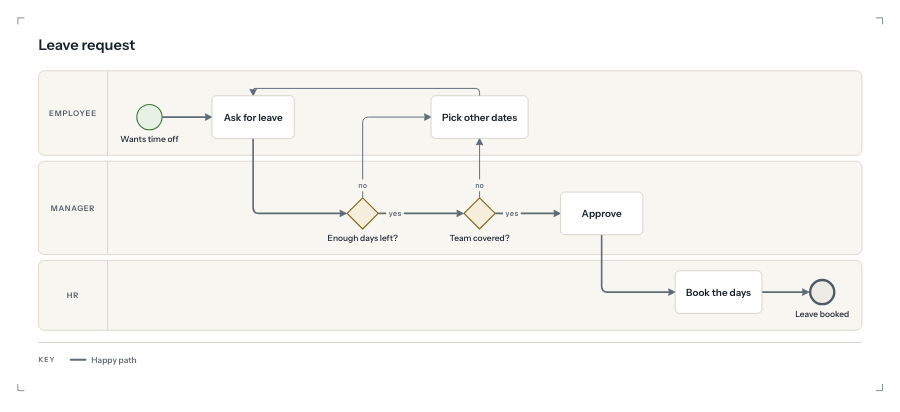
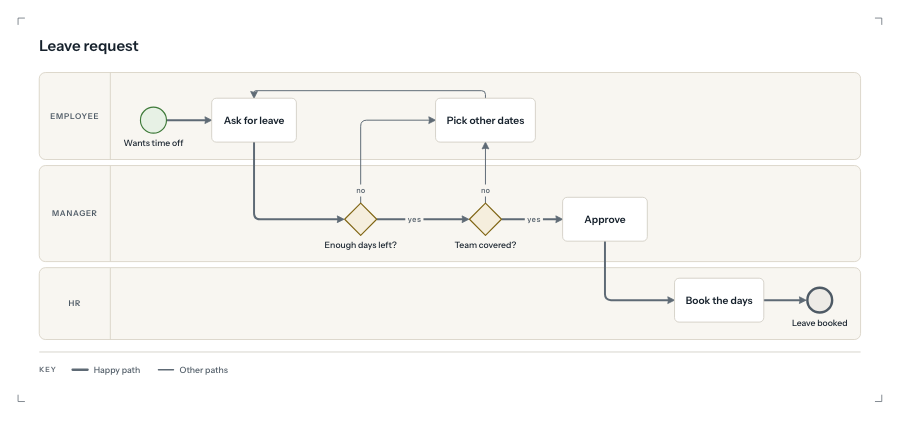
Benchmark: regenerate with the direction kept and processes wrapped
Claude-Session: https://claude.ai/code/session_01NyzyPhzV2RHZLQ3eD8NAEL

diff --git a/docs/benchmark.md b/docs/benchmark.md
@@ -47,16 +47,14 @@ The cases: an order platform with two groups, an analytics pipeline in four grou
 
 ### Where Cartography loses
 
-- **Event mesh**, crossings: Cartography 4; Mermaid 2, D2 · dagre 3, D2 · ELK 3
-- **Delivery pipeline**, crossings: Cartography 2; Mermaid 0, D2 · dagre 0, D2 · ELK 0, D2 · TALA 0
-- **Leave request**, label overlaps: Cartography 2; Mermaid 0, D2 · dagre 0, D2 · ELK 0, D2 · TALA 0
-- **Sign-in flow**, label overlaps: Cartography 1; Mermaid 0, D2 · dagre 0, D2 · ELK 0, D2 · TALA 0
-- **Leave request**, white space (area per shape area, more than 1.5 more): Cartography 6.7; Mermaid 3.6
-- **Sign-in flow**, white space (area per shape area, more than 1.5 more): Cartography 5.4; Mermaid 2.6
-- **Delivery pipeline**, white space (area per shape area, more than 1.5 more): Cartography 5.8; Mermaid 3.8
-- **Cloud platform**, movement after the edit, from scratch (more than 5 points more): Cartography 22.5 %; Mermaid 11.4 %, D2 · dagre 2.7 %, D2 · ELK 5.8 %
-- **Delivery pipeline**, movement after the edit, from scratch (more than 5 points more): Cartography 54.6 %; Mermaid 0.8 %, D2 · dagre 0.4 %, D2 · ELK 0.8 %, D2 · TALA 5.4 %
-- **Very wide drawings** that will not fit a slide or a page without shrinking: Sign-in flow (4.7 : 1), Photo uploads (12.4 : 1), Order lifecycle (9.9 : 1)
+- **Event mesh**, crossings: Cartography 6; Mermaid 2, D2 · dagre 3, D2 · ELK 3, D2 · TALA 5
+- **Cloud platform**, crossings: Cartography 3; Mermaid 1, D2 · dagre 2, D2 · ELK 1
+- **Leave request**, white space (area per shape area, more than 1.5 more): Cartography 6.4; Mermaid 3.6
+- **Sign-in flow**, white space (area per shape area, more than 1.5 more): Cartography 6.5; Mermaid 2.6, D2 · dagre 4.3, D2 · ELK 4.5, D2 · TALA 4.0
+- **Event mesh**, white space (area per shape area, more than 1.5 more): Cartography 5.7; D2 · ELK 3.5
+- **Event mesh**, movement after the edit, from scratch (more than 5 points more): Cartography 19.6 %; Mermaid 3.5 %, D2 · dagre 0.8 %
+- **Cloud platform**, movement after the edit, from scratch (more than 5 points more): Cartography 19.6 %; Mermaid 11.4 %, D2 · dagre 2.7 %, D2 · ELK 5.8 %
+- **Very wide drawings** that will not fit a slide or a page without shrinking: Order lifecycle (9.9 : 1), Event mesh (4.0 : 1)
 
 Generated 2026-11-10 with Mermaid 12.3.0 and D2 v0.9.0. Best value per row in bold (lower is better everywhere).
 
@@ -71,10 +69,10 @@ Generated 2026-11-10 with Mermaid 12.3.0 and D2 v0.9.0. Best value per row in bo
 | Photo uploads | **0** | 2 | 1 | **0** | **0** |
 | Shop schema | **0** | **0** | **0** | **0** | **0** |
 | Order lifecycle | **0** | 1 | 1 | **0** | **0** |
-| Event mesh | 4 | **2** | 3 | 3 | 5 |
-| Cloud platform | **1** | **1** | 2 | **1** | 3 |
-| Delivery pipeline | 2 | **0** | **0** | **0** | **0** |
-| **Total** | 7 | 6 | 7 | 4 | 8 |
+| Event mesh | 6 | **2** | 3 | 3 | 5 |
+| Cloud platform | 3 | **1** | 2 | **1** | 3 |
+| Delivery pipeline | **0** | **0** | **0** | **0** | **0** |
+| **Total** | 9 | 6 | 7 | 4 | 8 |
 
 ### Unrelated lines touching (they meet and part on one track)
 
@@ -103,10 +101,10 @@ Generated 2026-11-10 with Mermaid 12.3.0 and D2 v0.9.0. Best value per row in bo
 | Photo uploads | 8 | **0** | 1 | 12 | 2 |
 | Shop schema | 4 | 8 | **0** | 8 | 4 |
 | Order lifecycle | 11 | 28 | **3** | 19 | 8 |
-| Event mesh | 24 | 42 | **1** | 22 | 12 |
-| Cloud platform | 15 | 32 | **5** | 18 | **5** |
-| Delivery pipeline | 15 | 24 | **1** | 20 | 11 |
-| **Total** | 118 | 222 | 24 | 161 | 61 |
+| Event mesh | 20 | 42 | **1** | 22 | 12 |
+| Cloud platform | 17 | 32 | **5** | 18 | **5** |
+| Delivery pipeline | 13 | 24 | **1** | 20 | 11 |
+| **Total** | 114 | 222 | 24 | 161 | 61 |
 
 ### Turning per line, degrees (a right angle is 90, a curve counts its sweep)
 
@@ -118,10 +116,10 @@ Generated 2026-11-10 with Mermaid 12.3.0 and D2 v0.9.0. Best value per row in bo
 | Sign-in flow | 41 | 155 | 40 | 65 | **8** |
 | Photo uploads | 80 | **0** | 28 | 120 | 20 |
 | Shop schema | 72 | 144 | **28** | 144 | 72 |
-| Order lifecycle | 82 | 194 | **35** | 131 | 55 |
-| Event mesh | 134 | 231 | **31** | 124 | 67 |
-| Cloud platform | 96 | 198 | 38 | 116 | **32** |
-| Delivery pipeline | 84 | 132 | **20** | 112 | 61 |
+| Order lifecycle | 81 | 194 | **35** | 131 | 55 |
+| Event mesh | 112 | 231 | **31** | 124 | 67 |
+| Cloud platform | 109 | 198 | 38 | 116 | **32** |
+| Delivery pipeline | 73 | 132 | **20** | 112 | 61 |
 
 ### Line labels overlapping a label or a shape
 
@@ -129,15 +127,15 @@ Generated 2026-11-10 with Mermaid 12.3.0 and D2 v0.9.0. Best value per row in bo
 | --- | ---: | ---: | ---: | ---: | ---: |
 | Order platform | **0** | **0** | **0** | **0** | **0** |
 | Analytics platform | **0** | **0** | **0** | **0** | **0** |
-| Leave request | 2 | **0** | **0** | **0** | **0** |
-| Sign-in flow | 1 | **0** | **0** | **0** | **0** |
+| Leave request | **0** | **0** | **0** | **0** | **0** |
+| Sign-in flow | **0** | **0** | **0** | **0** | **0** |
 | Photo uploads | **0** | **0** | **0** | **0** | **0** |
 | Shop schema | **0** | **0** | **0** | **0** | **0** |
 | Order lifecycle | **0** | **0** | **0** | **0** | **0** |
 | Event mesh | **0** | **0** | **0** | **0** | **0** |
 | Cloud platform | **0** | **0** | **0** | **0** | **0** |
 | Delivery pipeline | **0** | **0** | **0** | **0** | **0** |
-| **Total** | 3 | 0 | 0 | 0 | 0 |
+| **Total** | 0 | 0 | 0 | 0 | 0 |
 
 ### Lines passing through a shape that is not one of their ends
 
@@ -159,16 +157,16 @@ Generated 2026-11-10 with Mermaid 12.3.0 and D2 v0.9.0. Best value per row in bo
 
 | Case | Cartography | Mermaid | D2 · dagre | D2 · ELK | D2 · TALA |
 | --- | ---: | ---: | ---: | ---: | ---: |
-| Order platform | 1.83 | 4.04 | 3.03 | 4.39 | **1.80** |
+| Order platform | 1.81 | 4.04 | 3.03 | 4.39 | **1.80** |
 | Analytics platform | 2.63 | **2.62** | 4.49 | 3.56 | 4.22 |
-| Leave request | 1.78 | 2.37 | 2.85 | 6.51 | **1.55** |
-| Sign-in flow | 2.55 | 2.43 | 2.16 | 2.64 | **1.09** |
-| Photo uploads | 2.54 | **2.52** | 3.66 | 3.11 | 3.04 |
+| Leave request | 1.74 | 2.37 | 2.85 | 6.51 | **1.55** |
+| Sign-in flow | 2.21 | 2.43 | 2.16 | 2.64 | **1.09** |
+| Photo uploads | **2.03** | 2.52 | 3.66 | 3.11 | 3.04 |
 | Shop schema | 1.47 | 1.06 | **1.02** | 1.24 | 1.10 |
-| Order lifecycle | 3.40 | 3.94 | 5.45 | 3.97 | **1.55** |
-| Event mesh | **2.63** | 3.58 | 3.63 | 3.03 | 3.99 |
-| Cloud platform | **2.92** | 3.93 | 3.92 | 4.54 | 3.17 |
-| Delivery pipeline | 2.55 | 2.96 | 3.50 | 3.39 | **1.99** |
+| Order lifecycle | 3.39 | 3.94 | 5.45 | 3.97 | **1.55** |
+| Event mesh | 3.26 | 3.58 | 3.63 | **3.03** | 3.99 |
+| Cloud platform | **3.11** | 3.93 | 3.92 | 4.54 | 3.17 |
+| Delivery pipeline | 3.29 | 2.96 | 3.50 | 3.39 | **1.99** |
 
 ### Area per shape area (white space; lower is tighter)
 
@@ -176,14 +174,14 @@ Generated 2026-11-10 with Mermaid 12.3.0 and D2 v0.9.0. Best value per row in bo
 | --- | ---: | ---: | ---: | ---: | ---: |
 | Order platform | **6.3** | 7.6 | 13.7 | 7.9 | 10.6 |
 | Analytics platform | 5.7 | **5.6** | 13.7 | 6.6 | 11.4 |
-| Leave request | 6.7 | **3.6** | 7.5 | 7.9 | 10.1 |
-| Sign-in flow | 5.4 | **2.6** | 4.3 | 4.5 | 4.0 |
-| Photo uploads | **2.8** | 6.7 | 6.3 | 4.3 | 7.7 |
+| Leave request | 6.4 | **3.6** | 7.5 | 7.9 | 10.1 |
+| Sign-in flow | 6.5 | **2.6** | 4.3 | 4.5 | 4.0 |
+| Photo uploads | 4.4 | 6.7 | 6.3 | **4.3** | 7.7 |
 | Shop schema | 2.8 | **2.4** | 3.0 | 2.9 | 3.2 |
 | Order lifecycle | 8.4 | 13.0 | 25.8 | 10.5 | **7.4** |
-| Event mesh | 4.8 | 6.3 | 8.2 | **3.5** | 5.6 |
-| Cloud platform | 7.4 | **6.9** | 14.2 | 8.2 | 16.5 |
-| Delivery pipeline | 5.8 | **3.8** | 6.7 | 4.7 | 8.2 |
+| Event mesh | 5.7 | 6.3 | 8.2 | **3.5** | 5.6 |
+| Cloud platform | 7.3 | **6.9** | 14.2 | 8.2 | 16.5 |
+| Delivery pipeline | 4.7 | **3.8** | 6.7 | 4.7 | 8.2 |
 
 ### Displacement after adding one shape and one line, % of the diagonal (drawn from scratch)
 
@@ -193,12 +191,12 @@ Generated 2026-11-10 with Mermaid 12.3.0 and D2 v0.9.0. Best value per row in bo
 | Analytics platform | 3.2 | 4.6 | 3.7 | **2.1** | 10.2 |
 | Leave request | 0.5 | **0.0** | **0.0** | 0.2 | 27.1 |
 | Sign-in flow | **0.0** | **0.0** | **0.0** | **0.0** | 30.8 |
-| Photo uploads | 3.7 | 3.2 | **0.0** | **0.0** | 41.4 |
+| Photo uploads | 0.2 | 3.2 | **0.0** | **0.0** | 41.4 |
 | Shop schema | **0.0** | 2.3 | 5.9 | 1.7 | 34.3 |
-| Order lifecycle | 1.6 | **0.7** | 3.9 | 1.0 | 40.8 |
-| Event mesh | 2.8 | 3.5 | **0.8** | 21.1 | 17.9 |
-| Cloud platform | 22.5 | 11.4 | **2.7** | 5.8 | 24.0 |
-| Delivery pipeline | 54.6 | 0.8 | **0.4** | 0.8 | 5.4 |
+| Order lifecycle | 1.1 | **0.7** | 3.9 | 1.0 | 40.8 |
+| Event mesh | 19.6 | 3.5 | **0.8** | 21.1 | 17.9 |
+| Cloud platform | 19.6 | 11.4 | **2.7** | 5.8 | 24.0 |
+| Delivery pipeline | **0.0** | 0.8 | 0.4 | 0.8 | 5.4 |
 
 Cartography also keeps the drawing before the edit in mind when it can (the editor does, and `carto render --stable`). Drawn that way, the same edits move the shapes that were there by:
 
@@ -208,12 +206,12 @@ Cartography also keeps the drawing before the edit in mind when it can (the edit
 | Analytics platform | 3.2 % | 0.0 % |
 | Leave request | 0.5 % | 0.5 % |
 | Sign-in flow | 0.0 % | 0.0 % |
-| Photo uploads | 3.7 % | 0.1 % |
+| Photo uploads | 0.2 % | 0.2 % |
 | Shop schema | 0.0 % | 0.0 % |
-| Order lifecycle | 1.6 % | 1.1 % |
-| Event mesh | 2.8 % | 2.8 % |
-| Cloud platform | 22.5 % | 0.0 % |
-| Delivery pipeline | 54.6 % | 0.0 % |
+| Order lifecycle | 1.1 % | 1.1 % |
+| Event mesh | 19.6 % | 0.0 % |
+| Cloud platform | 19.6 % | 0.0 % |
+| Delivery pipeline | 0.0 % | 0.0 % |
 
 ### Aspect ratio (width / height; a 16:9 slide is 1.78)
 
@@ -221,14 +219,14 @@ Cartography also keeps the drawing before the edit in mind when it can (the edit
 | --- | ---: | ---: | ---: | ---: | ---: |
 | Order platform | 3.53 | 3.34 | 2.24 | 3.99 | 1.45 |
 | Analytics platform | 0.72 | 0.59 | 0.60 | 0.40 | 0.77 |
-| Leave request | 3.16 | 7.07 | 5.63 | 6.20 | 1.42 |
-| Sign-in flow | 4.68 | 0.17 | 0.24 | 0.22 | 0.48 |
-| Photo uploads | 12.38 | 1.44 | 5.93 | 6.82 | 1.09 |
+| Leave request | 3.05 | 7.07 | 5.63 | 6.20 | 1.42 |
+| Sign-in flow | 0.79 | 0.17 | 0.24 | 0.22 | 0.48 |
+| Photo uploads | 0.49 | 1.44 | 5.93 | 6.82 | 1.09 |
 | Shop schema | 1.54 | 0.90 | 1.73 | 2.11 | 1.58 |
 | Order lifecycle | 9.87 | 5.13 | 4.84 | 7.54 | 0.86 |
-| Event mesh | 0.81 | 3.76 | 3.19 | 2.02 | 1.52 |
-| Cloud platform | 0.74 | 0.36 | 0.61 | 0.25 | 0.60 |
-| Delivery pipeline | 0.35 | 8.27 | 6.85 | 9.55 | 2.71 |
+| Event mesh | 4.05 | 3.76 | 3.19 | 2.02 | 1.52 |
+| Cloud platform | 0.73 | 0.36 | 0.61 | 0.25 | 0.60 |
+| Delivery pipeline | 1.92 | 8.27 | 6.85 | 9.55 | 2.71 |
 
 Not measured:
 
